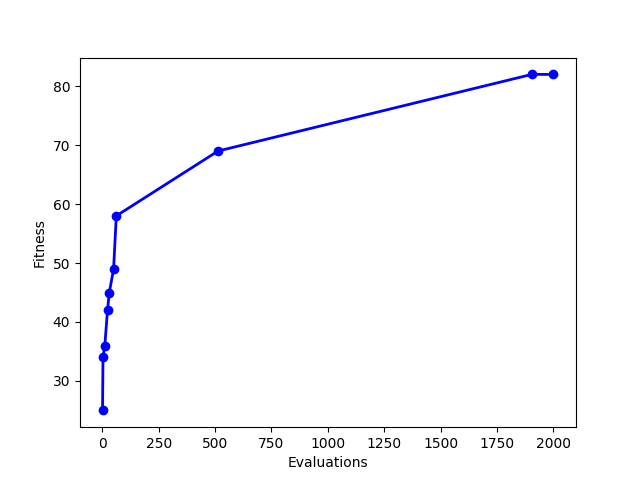
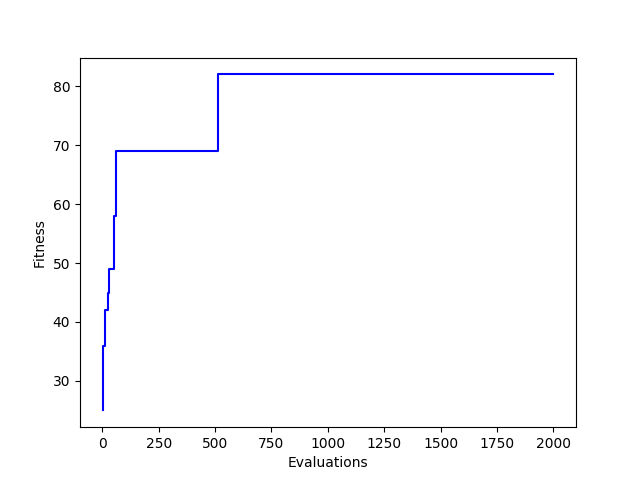
Add final results graph
Change graphs to step plots

diff --git a/analysis/gen_fitness_graphs.py b/analysis/gen_fitness_graphs.py
@@ -53,13 +53,11 @@ for file_index in range(len(log_file_paths)):
         fits += [fits[-1]]
 
         # Plot the results
-        plt.plot(evals, fits, '-bo', linewidth = 2.0)
+        plt.step(evals, fits, '-b')
 
         # Include necessary labels
         plt.xlabel('Evaluations')
         plt.ylabel('Fitness')
-
-        # plt.annotate('Maximum fitness (score): ' + str(fits[-2]) + '\nEvaluation number: ' + str(evals[-2]), xy = (evals[-2], fits[-2]), xytext=(1, -60), ha='right', textcoords='offset points', arrowprops=dict(arrowstyle = 'simple', shrinkA = 0))
 
         # Save and close the plot
         plt.savefig(log_file_paths[file_index][:log_file_paths[file_index].find('log')] + 'graph.png')
